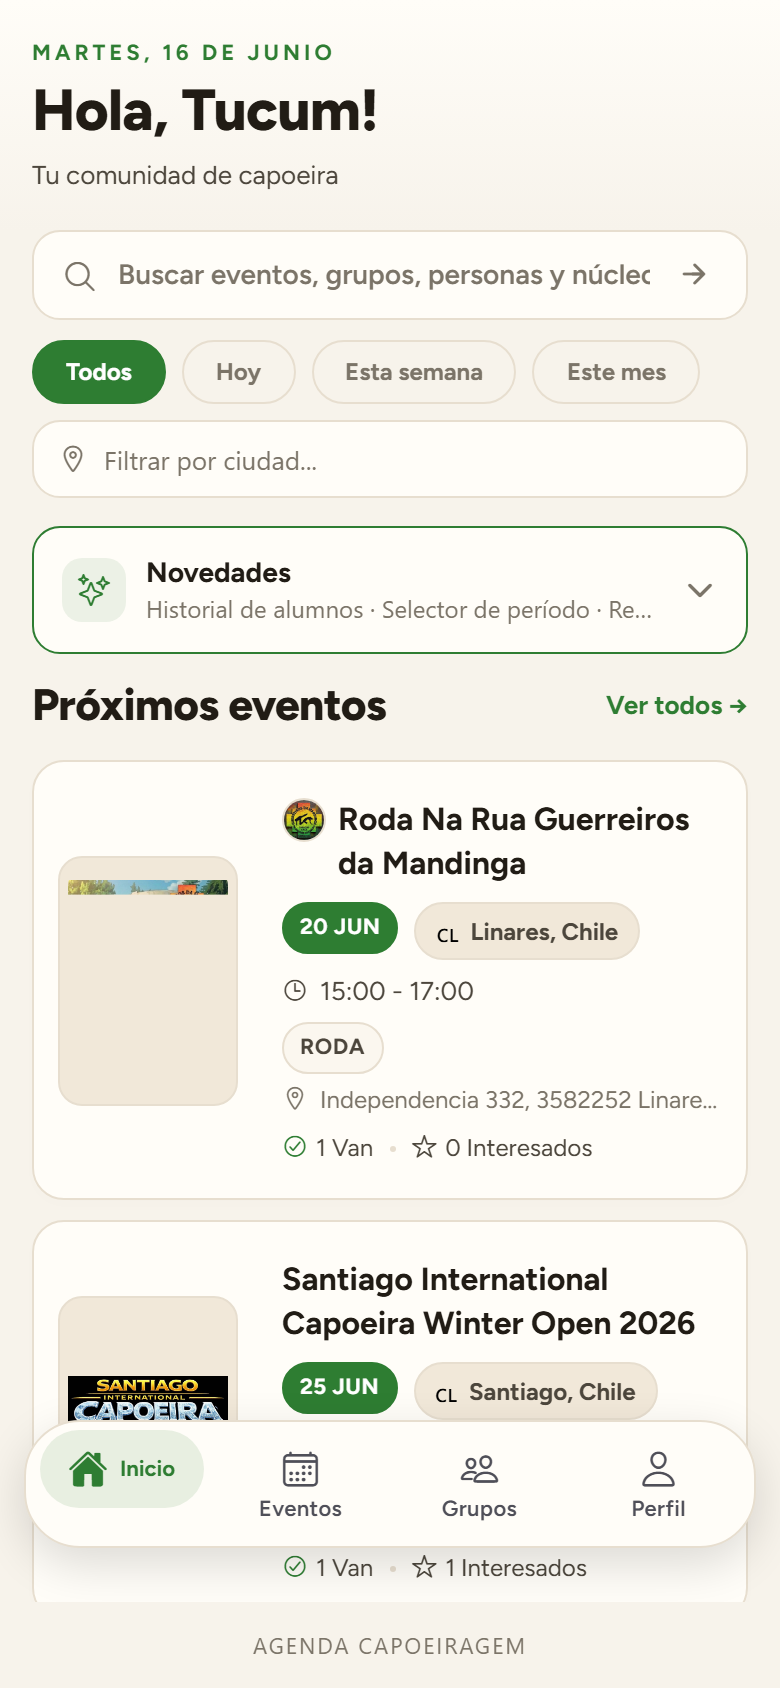
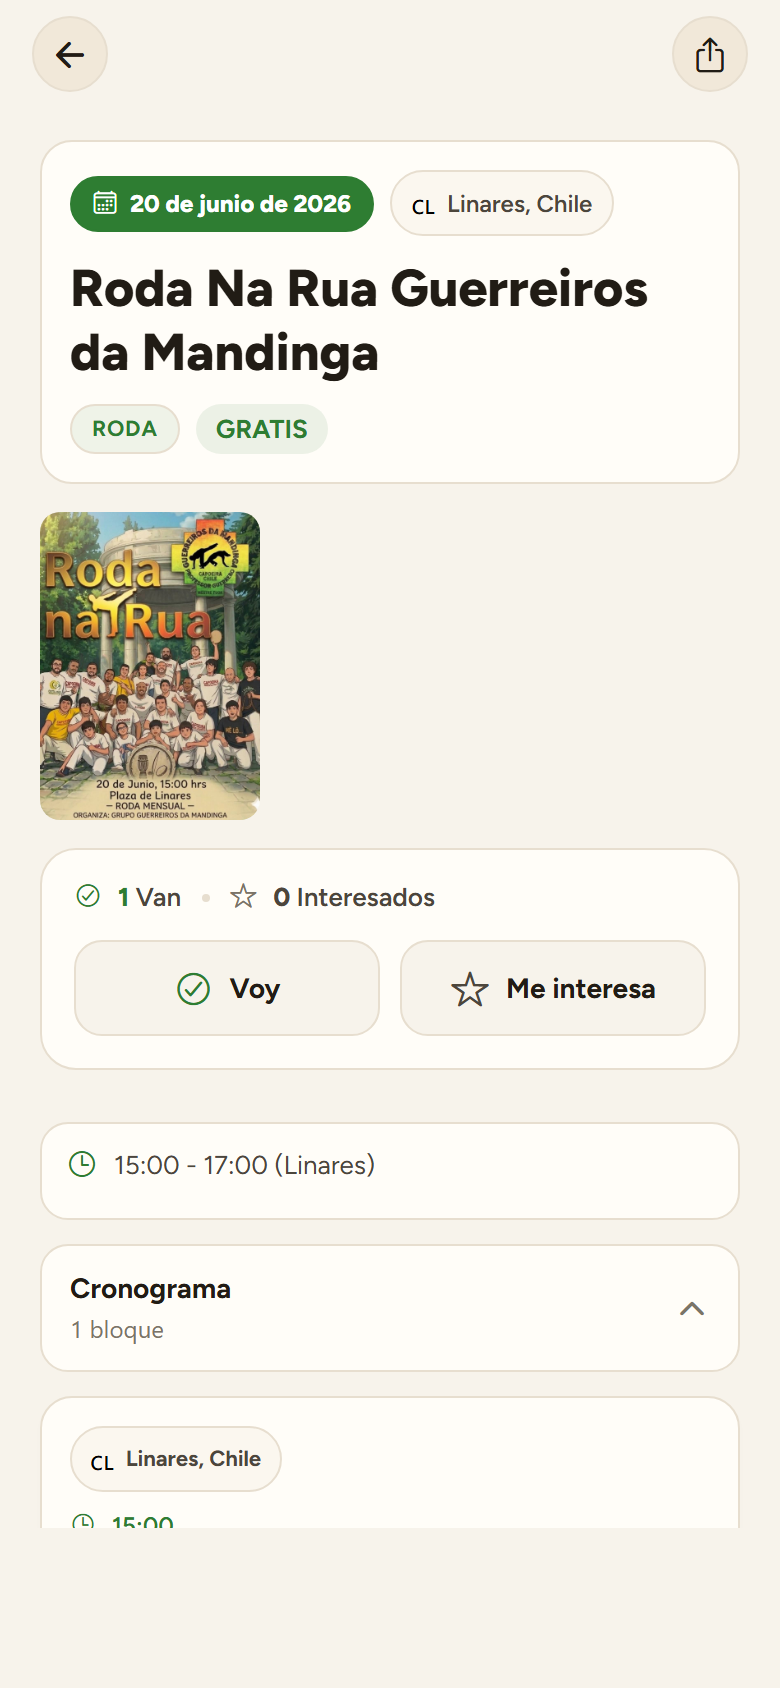
fix: smaller phone frames + replace event/graduation screenshots with better captures
- Reduce phone sizes: default 300→230px, lg 360→280px with proportional bezel
- graduation.png: graduar-B showing Graduar tab active (green chip)
- event.png: real event detail page (Roda Na Rua with photo, CTA buttons)
- Dynamic island and border-radius scale with phone size

diff --git a/components/public/ScreenshotFrame.tsx b/components/public/ScreenshotFrame.tsx
@@ -1,9 +1,9 @@
 import Image from 'next/image'
 import FeatureMockup, { type FeatureMockupSize, type FeatureMockupType } from '@/components/public/FeatureMockup'
 
-const MAX_W: Record<FeatureMockupSize, string> = {
-  default: '300px',
-  lg: '360px',
+const SIZES: Record<FeatureMockupSize, { width: number; radius: number; border: number; islandW: number; islandH: number }> = {
+  default: { width: 230, radius: 40, border: 5, islandW: 74, islandH: 20 },
+  lg:      { width: 280, radius: 48, border: 6, islandW: 90, islandH: 24 },
 }
 
 type Props =
@@ -15,38 +15,40 @@ export default function ScreenshotFrame({ src, alt, type, size = 'default' }: Pr
     return <FeatureMockup type={type!} size={size} />
   }
 
+  const s = SIZES[size]
+
   return (
-    <div className="relative mx-auto" style={{ width: MAX_W[size] }}>
+    <div className="relative mx-auto" style={{ width: s.width }}>
       {/* Ambient glow */}
       <div
         aria-hidden
-        className="pointer-events-none absolute inset-4 rounded-full opacity-30 blur-3xl"
-        style={{ background: 'rgba(16,185,129,0.35)' }}
+        className="pointer-events-none absolute inset-2 rounded-full opacity-25 blur-2xl"
+        style={{ background: 'rgba(16,185,129,0.4)' }}
       />
 
-      {/* Phone shell — fixed width, aspect-ratio drives height */}
+      {/* Phone shell */}
       <div
         className="relative mx-auto overflow-hidden"
         style={{
-          width: MAX_W[size],
+          width: s.width,
           aspectRatio: '9/19',
           background: '#0A0C10',
-          borderRadius: 52,
-          border: '7px solid #1a1e26',
-          boxShadow: '0 32px 64px rgba(0,0,0,0.55), 0 0 0 1px rgba(255,255,255,0.04)',
+          borderRadius: s.radius,
+          border: `${s.border}px solid #1a1e26`,
+          boxShadow: '0 24px 48px rgba(0,0,0,0.5), 0 0 0 1px rgba(255,255,255,0.04)',
         }}
       >
         {/* Dynamic Island */}
         <div
           aria-hidden
-          className="absolute left-1/2 top-2 z-30"
+          className="absolute left-1/2 top-1.5 z-30"
           style={{
             transform: 'translateX(-50%)',
-            width: 96,
-            height: 26,
+            width: s.islandW,
+            height: s.islandH,
             background: '#0A0C10',
-            borderRadius: 13,
-            border: '1.5px solid #1a1e26',
+            borderRadius: s.islandH / 2,
+            border: '1px solid #1a1e26',
           }}
         />
 
@@ -57,7 +59,7 @@ export default function ScreenshotFrame({ src, alt, type, size = 'default' }: Pr
             alt={alt!}
             fill
             className="object-cover object-top"
-            sizes={MAX_W[size]}
+            sizes={`${s.width}px`}
             priority={size === 'lg'}
           />
         </div>
